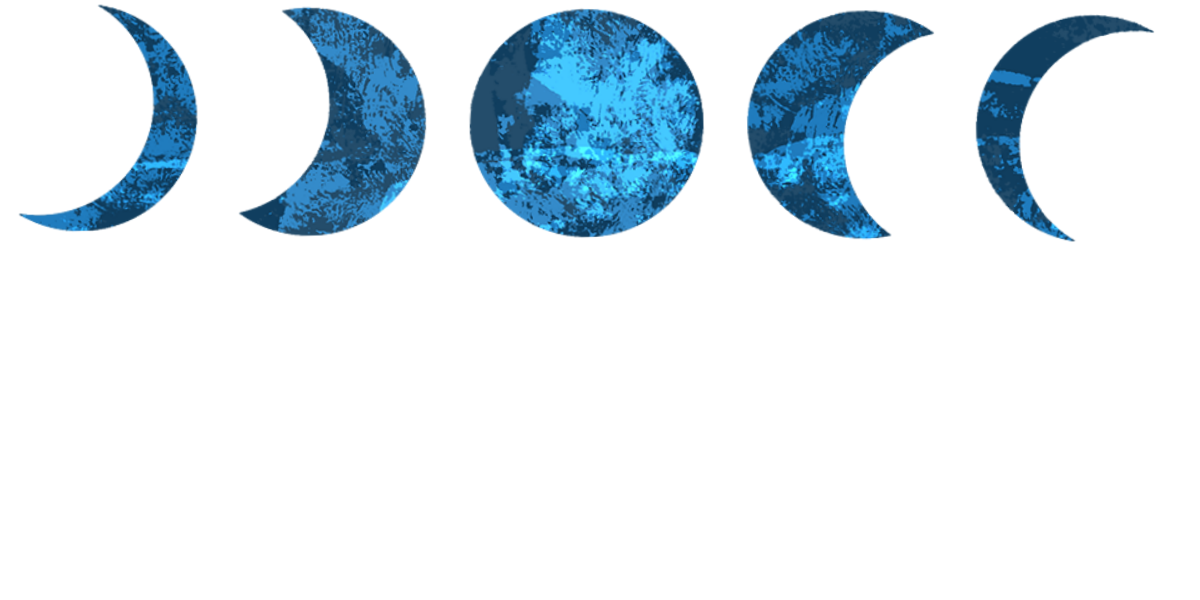
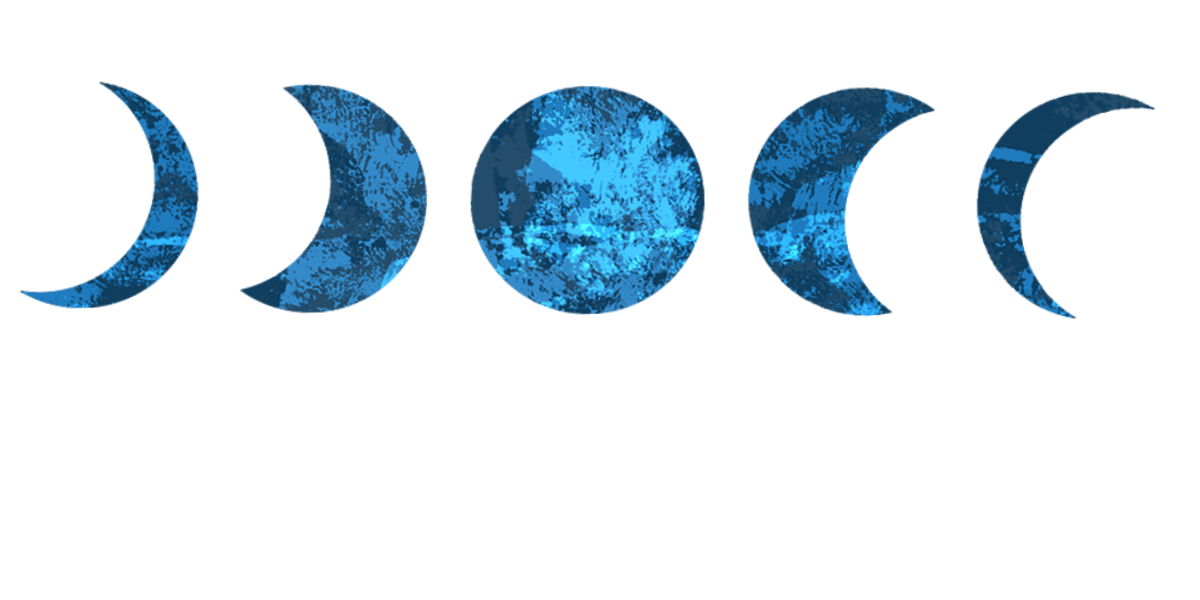
changed bg hue method

Changed region(s): [[0.0, 0.0, 0.5858, 0.54], [0.6167, 0.0, 0.7708, 0.54], [0.8017, 0.0, 0.9558, 0.54]]

diff --git a/index.html b/index.html
@@ -36,7 +36,7 @@
         <div class="cardProject">
           <div class="imgContainer pr0">
             <img class="img0" src="./imgs/pokeTeam1.png" alt="">
-            <img class="img0 imgHover" src="./imgs/pokeTeam2.png" alt="">
+            <img class="img1 imgHover" src="./imgs/pokeTeam2.png" alt="">
           </div>
           <div class="projectInfo">
             <p class="projectName">Poke Team</p>
@@ -51,7 +51,7 @@
         <div class="cardProject">
           <div class="imgContainer pr1">
             <img class="img0" src="./imgs/aniSearch1.png" alt="">
-            <img class="img0 imgHover" src="./imgs/aniSearch2.png" alt="">
+            <img class="img1 imgHover" src="./imgs/aniSearch2.png" alt="">
           </div>
           <div class="projectInfo">
             <p class="projectName">AniSearch</p>
@@ -66,7 +66,7 @@
         <div class="cardProject">
           <div class="imgContainer pr2">
             <img class="img0" src="./imgs/cli1.png" alt="">
-            <img class="img0 imgHover" src="./imgs/cli2.png" alt="">
+            <img class="img1 imgHover" src="./imgs/cli2.png" alt="">
           </div>
           <div class="projectInfo">
             <p class="projectName">Cli Portfolio</p>
@@ -81,7 +81,7 @@
         <div class="cardProject">
           <div class="imgContainer pr3">
             <img class="img0" src="./imgs/chat1.png" alt="">
-            <img class="img0 imgHover" src="./imgs/chat2.png" alt="">
+            <img class="img1 imgHover" src="./imgs/chat2.png" alt="">
           </div>
           <div class="projectInfo">
             <p class="projectName">Group Chat</p>

diff --git a/style.css b/style.css
@@ -69,6 +69,17 @@ header p {
   background-image: url("./imgs/bgGeo.png");
   background-repeat: no-repeat;
   background-size: contain;
+  animation: hue 10s infinite;
+  -webkit-animation: hue 10s infinite;
+}
+
+@keyframes hue {
+  0%, 100%  { -webkit-filter: hue-rotate(0deg); }
+  50% { -webkit-filter: hue-rotate(170deg); }
+}
+@-webkit-keyframes hue {
+  0%, 100%  { -webkit-filter: hue-rotate(0deg); }
+  50% { -webkit-filter: hue-rotate(170deg); }
 }
 
 #about p {
@@ -116,6 +127,7 @@ header p {
 .imgHover:hover {
   opacity: 1;
 }
+
 
 
 /* Media Queries */
